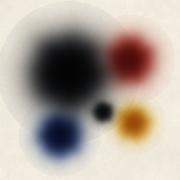
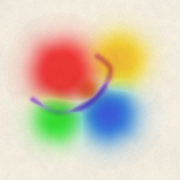
アイコンを現アプリ（v4.3-kirei・はなやか）の見た目に刷新
旧アイコンは初版（bc26534）のままで、しぶいpalette（黒い「すみ」）の大きな
墨だまりが主役 → アプリが v4.1〜v4.3 で捨てた「黒・濁り」そのものだった。
本体 displayShader と同じパイプライン（vivid 6色INKS・黒なし・mudCut 0.75・
dispMax 0.55・exp(-dye*2.6)）でアイコンも再描画。鮮やかな4色の柔らかい滴 +
指でなぞった細い渦筋1本（Catmull-Romで滑らか）の「綺麗さ優先」デザインに。
sw.js CACHE を v13 にバンプ（PWAキャッシュ更新）。

diff --git a/sw.js b/sw.js
@@ -1,6 +1,6 @@
 // すみながし Service Worker — オフラインでも遊べるように全アセットをキャッシュ
 // HTML はネットワーク優先（更新が1回の起動で届く）・静的アセットはキャッシュ優先
-const CACHE = "suminagashi-v12";
+const CACHE = "suminagashi-v13";
 const ASSETS = [
   "./",
   "./index.html",

diff --git a/gen_icons.py b/gen_icons.py
@@ -1,33 +1,74 @@
 #!/usr/bin/env python3
 """すみながしアプリのアイコンPNGを生成する（標準ライブラリのみ・Pillow不要）。
 
-アプリ本体と同じ「吸収モデル（紙色 × exp(-墨密度)）」で描く:
-和紙テクスチャの上に、1歳児がぽとぽと落としたような柔らかい墨滴
-（墨・朱・藍・山吹）と、指でなぞった流れ筋。エッジは羽毛状。
+アプリ本体（v4.3-kirei・はなやかモード）と同じ表示パイプラインで描く:
+和紙の上に、1歳児がぽとぽと落とした鮮やかな色の柔らかい滴と、指でなぞった
+細い流れ筋。**黒は使わない**（はなやかモードの INKS と同一・濁り除去 mudCut /
+濃度上限 dispMax をアイコンにも適用して、本体と同じ「綺麗さ優先」の発色にする）。
 icon-180 / icon-192 / icon-512 を出力する。
 """
 import math
 import struct
 import zlib
 
-PAPER = (0.945, 0.922, 0.871)
-ABSORB_K = 2.6  # アプリの displayShader と同じ減衰係数
+PAPER = (0.945, 0.922, 0.871)  # index.html PAPER_RGB と同一
+ABSORB_K = 2.6                 # displayShader の exp(-dye * 2.6)
+MUD_CUT = 0.75                 # はなやか: 全チャンネル共通の濁り成分を抜く
+DISP_MAX = 0.55                # 表示濃度の上限（黒を数学的に出力不能にする）
 
-# 吸収ベクトル（index.html の INKS / PALETTE_INKS と同一）
-SUMI = (0.85, 0.83, 0.79)
-SHU = (0.26, 0.70, 0.74)
-AI = (0.80, 0.66, 0.40)
-YAMABUKI = (0.12, 0.30, 0.82)
+# 吸収ベクトル（index.html の INKS = はなやかモードと同一・黒は無い）
+AKA = (0.06, 1.05, 1.00)       # あか（ビビッド朱赤）
+AO = (1.05, 0.50, 0.06)        # あお（コバルト）
+KIIRO = (0.03, 0.14, 1.10)     # きいろ（ビビッド黄）
+MIDORI = (0.95, 0.10, 0.90)    # みどり（鮮緑）
+DAIDAI = (0.05, 0.55, 1.05)    # だいだい（橙）
+MURASAKI = (0.60, 1.00, 0.22)  # むらさき（明るい紫）
 
-# 墨滴: (中心x, 中心y, 半径, 濃さ, 吸収ベクトル, 揺らぎ位相) — 座標/半径は 0..1
-# 1歳児が画面をぽとぽとタップした感じ: 大きい墨1つ + 色とりどりの小滴
+# 滴: (中心x, 中心y, 半径, 濃さ, 吸収ベクトル, 揺らぎ位相) — 座標/半径は 0..1
+# 1歳児がぽとぽとタップした感じ: 鮮やかな色の柔らかい滴を程よく散らす（黒なし・軽め）
 DROPS = [
-    (0.38, 0.40, 0.165, 1.50, SUMI, 0.7),      # 主役の墨（左上寄り・大きく）
-    (0.72, 0.33, 0.105, 1.25, SHU, 2.9),       # 朱
-    (0.33, 0.75, 0.095, 1.25, AI, 5.1),        # 藍
-    (0.74, 0.68, 0.075, 1.15, YAMABUKI, 1.8),  # 山吹
-    (0.57, 0.62, 0.045, 1.00, SUMI, 4.2),      # 墨の小滴（ちょん、と）
+    (0.34, 0.39, 0.135, 0.66, AKA, 0.7),       # あか（左上）
+    (0.66, 0.33, 0.120, 0.62, KIIRO, 2.9),     # きいろ（右上）
+    (0.60, 0.63, 0.130, 0.62, AO, 5.1),        # あお（右下）
+    (0.31, 0.66, 0.105, 0.56, MIDORI, 1.8),    # みどり（左下）
+    (0.49, 0.50, 0.052, 0.44, DAIDAI, 4.2),    # だいだい（中央の小さなアクセント）
 ]
+
+# 流れ筋: (吸収ベクトル, 濃さ, 線半径, 揺らぎ位相, [(x,y), ...]制御点) — 指でなぞった細い筋
+# 滴の間を縫う、すみながし特有の細い渦の筋を1本だけ優雅に通す（黒くならず色のまま残る）。
+# 制御点は Catmull-Rom スプラインで滑らかな曲線に補間する（折れ線の角を消す）。
+STROKES = [
+    (MURASAKI, 0.38, 0.016, 1.3,
+     [(0.18, 0.55), (0.31, 0.62), (0.46, 0.59), (0.57, 0.49),
+      (0.61, 0.38), (0.54, 0.31)]),
+]
+
+
+def catmull_rom(pts, steps=14):
+    """制御点を Catmull-Rom スプラインで密な滑らか曲線に展開する。"""
+    if len(pts) < 3:
+        return pts
+    ext = [pts[0]] + list(pts) + [pts[-1]]
+    out = []
+    for i in range(1, len(ext) - 2):
+        p0, p1, p2, p3 = ext[i - 1], ext[i], ext[i + 1], ext[i + 2]
+        for s in range(steps):
+            t = s / steps
+            t2, t3 = t * t, t * t * t
+            x = 0.5 * ((2 * p1[0]) + (-p0[0] + p2[0]) * t
+                       + (2 * p0[0] - 5 * p1[0] + 4 * p2[0] - p3[0]) * t2
+                       + (-p0[0] + 3 * p1[0] - 3 * p2[0] + p3[0]) * t3)
+            y = 0.5 * ((2 * p1[1]) + (-p0[1] + p2[1]) * t
+                       + (2 * p0[1] - 5 * p1[1] + 4 * p2[1] - p3[1]) * t2
+                       + (-p0[1] + 3 * p1[1] - 3 * p2[1] + p3[1]) * t3)
+            out.append((x, y))
+    out.append(pts[-1])
+    return out
+
+
+# 制御点を滑らかな密ポリラインに前展開
+STROKES = [(absorb, amp, lr, phase, catmull_rom(pts))
+           for (absorb, amp, lr, phase, pts) in STROKES]
 
 
 def hash01(ix, iy):
@@ -48,9 +89,55 @@ def vnoise(x, y):
     return a + (b - a) * fx + (c - a) * fy + (a - b - c + d) * fx * fy
 
 
+def seg_dist(px, py, ax, ay, bx, by):
+    """点(px,py)と線分(a-b)の最短距離。"""
+    vx, vy = bx - ax, by - ay
+    wx, wy = px - ax, py - ay
+    c1 = vx * wx + vy * wy
+    if c1 <= 0:
+        return math.hypot(px - ax, py - ay)
+    c2 = vx * vx + vy * vy
+    if c2 <= c1:
+        return math.hypot(px - bx, py - by)
+    t = c1 / c2
+    return math.hypot(px - (ax + t * vx), py - (ay + t * vy))
+
+
+def density(u, v):
+    """点(u,v)での墨密度（吸収ベクトル空間・3チャンネル）を合成する。"""
+    dens = [0.0, 0.0, 0.0]
+    for (cx, cy, r, amp, absorb, phase) in DROPS:
+        dx, dy = u - cx, v - cy
+        d2 = dx * dx + dy * dy
+        if d2 > (r * 2.4) ** 2:
+            continue
+        ang = math.atan2(dy, dx)
+        # 縁のごく僅かな揺らぎ（強いと花びら状になる・実物のにじみは滑らか）
+        wob = 1 + 0.018 * math.sin(5 * ang + phase) + 0.010 * math.sin(8 * ang + phase * 1.7)
+        dn = math.sqrt(d2) / max(r * wob, 1e-6)
+        # コア（濃い芯）+ ハロ（羽毛状のにじみ）
+        g = amp * (math.exp(-dn ** 2.4) + 0.28 * math.exp(-((dn / 1.35) ** 2.0)))
+        for i in range(3):
+            dens[i] += absorb[i] * g
+    for (absorb, amp, lr, phase, pts) in STROKES:
+        best = 1e9
+        for j in range(len(pts) - 1):
+            best = min(best, seg_dist(u, v, pts[j][0], pts[j][1], pts[j + 1][0], pts[j + 1][1]))
+            if best < 1e-4:
+                break
+        if best > lr * 3.2:
+            continue
+        # 線からの距離でガウス減衰（細い筋）
+        wob = 1 + 0.05 * math.sin(28 * best + phase)
+        dn = best / max(lr * wob, 1e-6)
+        g = amp * math.exp(-dn ** 2.0)
+        for i in range(3):
+            dens[i] += absorb[i] * g
+    return dens
+
+
 def render(size):
     """RGBAバッファ（PNGスキャンライン形式）を生成。"""
-    blobs = DROPS
     rows = []
     for py in range(size):
         row = bytearray()
@@ -64,24 +151,14 @@ def render(size):
                      + vnoise(u * 110, v * 110) * 0.20)
             speck = hash01(px // 2, py // 2)
             shade = 0.965 + 0.055 * fiber + 0.012 * speck
-            # --- 墨密度の合成（色ごとの吸収 × コア+ハロの2層減衰） ---
-            dens = [0.0, 0.0, 0.0]
-            for (cx, cy, r, amp, absorb, phase) in blobs:
-                dx, dy = u - cx, v - cy
-                d2 = dx * dx + dy * dy
-                if d2 > (r * 2.4) ** 2:
-                    continue
-                ang = math.atan2(dy, dx)
-                # 縁の揺らぎはごく僅か（強いと花びら状のノッチが出る・実物のにじみは滑らかな円）
-                wob = 1 + 0.018 * math.sin(5 * ang + phase) + 0.010 * math.sin(8 * ang + phase * 1.7)
-                dn = math.sqrt(d2) / max(r * wob, 1e-6)
-                # コア（濃い芯）+ ハロ（羽毛状のにじみ）。ハロは控えめに（広げすぎると濁る）
-                g = amp * (math.exp(-dn ** 2.4) + 0.28 * math.exp(-((dn / 1.35) ** 2.0)))
-                dens[0] += absorb[0] * g
-                dens[1] += absorb[1] * g
-                dens[2] += absorb[2] * g
+            # --- 墨密度の合成 ---
+            dye = density(u, v)
+            # --- 本体 displayShader と同じ「綺麗さ優先」処理 ---
+            mud = min(dye)                      # 全チャンネル共通の濁り成分
+            dye = [max(0.0, d - MUD_CUT * mud) for d in dye]
+            dye = [min(d, DISP_MAX) for d in dye]  # 黒を出力不能にする上限
             color = bytes(
-                max(0, min(255, round(PAPER[i] * shade * math.exp(-ABSORB_K * dens[i]) * 255)))
+                max(0, min(255, round(PAPER[i] * shade * math.exp(-ABSORB_K * dye[i]) * 255)))
                 for i in range(3)
             )
             row += color + b"\xff"
